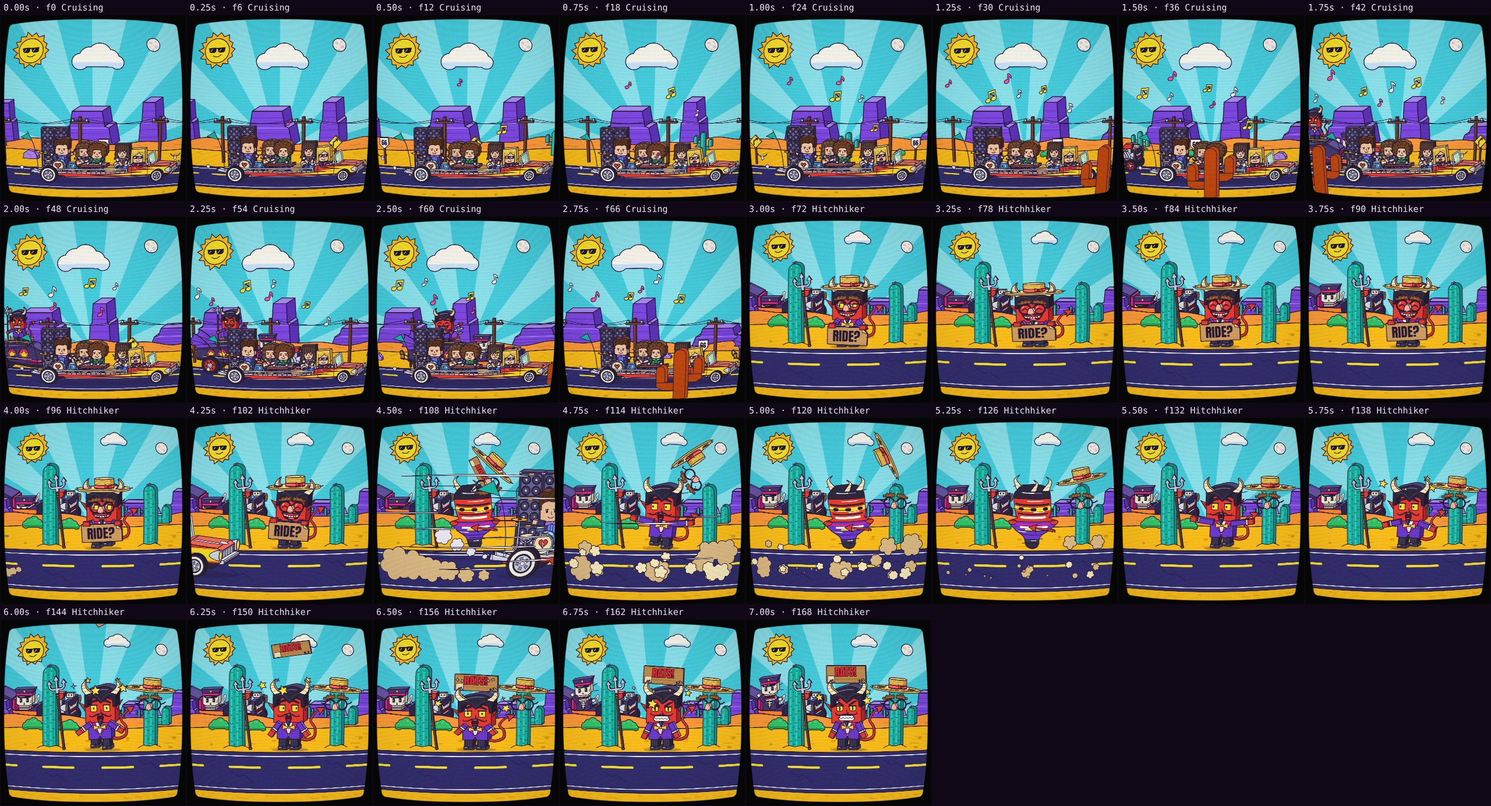
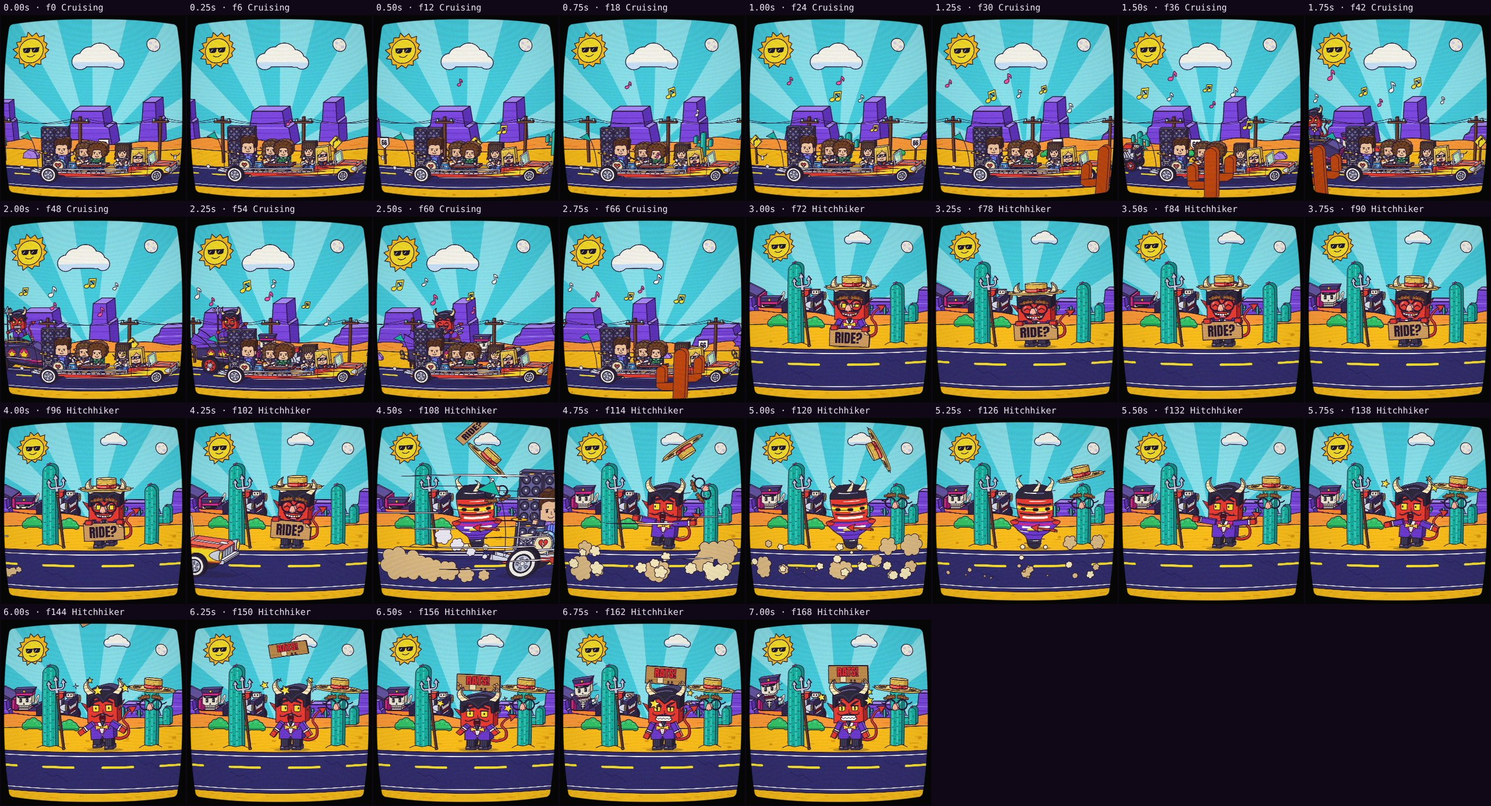
wip(runnin-down-a-dream): chorus 1 finished by its agent; other blocks in progress (not yet integrated)
Claude-Session: https://claude.ai/code/session_01UB8Eocu6YQhvkYFYMosPEV

diff --git a/sandbox/2026-11-11-runnin-down-a-dream/segments/verse1b.js b/sandbox/2026-11-11-runnin-down-a-dream/segments/verse1b.js
@@ -2,8 +2,9 @@
 // At a fork the highway runs on in the sun and an exit ramp drops into Hell's mouth. He swaps
 // the signpost's two boards so HEAVEN points down the ramp; the band drives straight on without
 // reading anything, and his own chauffeur, who does read, takes the exit with him aboard.
-//   bar 17      Swap   a closer shot of the sign (no cars): HELL goes up on the first beat,
-//                      HEAVEN comes down into his mitts and goes on the low nail on the third
+//   bar 17      Swap   a closer shot of the sign (no cars): a beat on the sign as it was, HELL
+//                      goes up on the second beat (HEAVEN comes down into his mitts), HEAVEN
+//                      goes on the low nail on the third, he rubs his mitts on the fourth
 //   bars 18–19  Fork   the wide shot: the band passes, the hearse takes the exit and drops in
 (() => {
     const Seg = (window.Seg = window.Seg || {});
@@ -428,8 +429,11 @@
     function swap(g, t) {
         const s = S1, P = S.pulseAt(t), ph = P.k + P.since;
         const NT = [PX1, PY1 - NAIL_T * s], NL = [PX1, PY1 - NAIL_L * s];
-        const e1 = n(0), e2 = n(1), e3 = n(2), e4 = n(3);
-        const k1 = kOf(t, e1), k2 = kOf(t, e2), k3 = kOf(t, e3), k4 = kOf(t, e4);
+        // beat 1 the sign as it was, beat 2 the first slap, beat 3 the second, beat 4 he rubs his mitts
+        const e0 = n(0), e1 = n(1), e3 = n(2), e4 = n(3);
+        const k0 = kOf(t, e0), k1 = kOf(t, e1), k3 = kOf(t, e3), k4 = kOf(t, e4);
+        // the second hop takes off one frame before its beat (the beats are 9 frames apart here)
+        const launch = t >= e3 - 1 / 24 - 1e-6 && t < e3 - 1e-6;
 
         backdrop(g, t, SET1);
         ramp(g, RAMP1);
@@ -440,41 +444,39 @@
         // --- where the two boards are: [x, y, ang], and who has HEAVEN
         const chest = [BX1 - 0.585 * s, GY1 - 0.46 * s];
         let hell, heaven, held = false;
-        if (k1 <= 0) hell = [NL[0] + 0.03 * s, NL[1] - 0.09 * s, LOW - 0.13];
-        else if (k1 === 1) hell = [PX1 + 0.5 * s, PY1 - 3.02 * s, 0.22];
-        else if (k1 === 2) hell = [NT[0] + 0.05 * s, NT[1] - 0.05 * s, -0.15];
-        else if (k1 === 3) hell = [NT[0], NT[1], 0.06];
+        if (k1 < 0) hell = [NL[0], NL[1], LOW];
+        else if (k1 === 0) hell = [PX1 + 0.5 * s, PY1 - 3.02 * s, 0.22];
+        else if (k1 === 1) hell = [NT[0] + 0.05 * s, NT[1] - 0.05 * s, -0.15];
+        else if (k1 === 2) hell = [NT[0], NT[1], 0.06];
         else hell = [NT[0], NT[1], 0];
-        if (k1 < 2) heaven = [NT[0], NT[1], 0];
-        else if (k1 === 2) heaven = [NT[0] - 1.2 * s, NT[1] - 0.5 * s, -0.2];
-        else if (k1 === 3) heaven = [chest[0] - 0.02 * s, GY1 - 2.72 * s, -0.12];
-        else if (k3 < -2) {
+        if (k1 < 1) heaven = [NT[0], NT[1], 0];
+        else if (k1 === 1) heaven = [NT[0] - 1.2 * s, NT[1] - 0.5 * s, -0.2];
+        else if (launch) heaven = [PX1 - 0.1 * s, PY1 - 2.02 * s, 0.46];
+        else if (k3 < 0) {
             held = true;
-            heaven = [chest[0], chest[1] + (k2 === 0 ? 0.09 * s : 0), 0];
-        } else if (k3 === -2) {
-            held = true;
-            heaven = [chest[0], chest[1] + 0.07 * s, 0];
-        } else if (k3 === -1) heaven = [PX1 - 0.1 * s, PY1 - 2.02 * s, 0.46];
-        else heaven = [NL[0], NL[1], LOW + (k3 === 0 ? 0.12 : k3 === 1 ? -0.05 : 0)];
+            heaven = [chest[0], chest[1] + (k1 === 2 ? 0.09 * s : 0), 0];
+        } else heaven = [NL[0], NL[1], LOW + (k3 === 0 ? 0.12 : k3 === 1 ? -0.05 : 0)];
 
-        // --- the Devil: a hop and a slap on the first beat, the catch, a hop and a slap on the third, then he rubs his mitts
+        // --- the Devil: he looks his work over tapping his mitts, a hop and a slap on the second
+        // beat, the catch, a hop and a slap on the third, then he rubs his mitts
         const dx = BX1;
         let hopY = 0, pose;
         const tail = 0.05 * Math.sin(ph * PI);
-        if (k1 === 0) {
+        if (k1 < 0) {
+            const a = k0 % 2 ? 1 : 0; // mitts together, apart, together; then he crouches for the hop
+            if (k0 < 3) pose = { mood: 'sly', look: 1, headTilt: -0.07, squash: 0.02 + 0.04 * (1 - a), handL: [0.1 + 0.2 * a, -0.66 - 0.05 * a], handR: [-0.07 - 0.2 * a, -0.64 - 0.05 * a], tail: 0.09 * Math.sin(k0 * 2.1) };
+            else pose = { mood: 'sly', look: 1, headTilt: -0.05, squash: 0.18, handL: [0.52, -0.56], handR: [-0.56, -0.56], tail: -0.04 };
+        } else if (k1 === 0) {
             hopY = 0.7;
             pose = { mood: 'sly', look: 1, squash: -0.07, lean: 0.05, handL: [0.66, -1.54], handR: [-0.62, -0.5], tail: 0.1 };
         } else if (k1 === 1) {
             hopY = 0.38;
-            pose = { mood: 'grin', look: 1, squash: -0.03, handL: [0.7, -1.5], handR: [-0.6, -0.56], tail: 0.08 };
-        } else if (k1 === 2) pose = { mood: 'grin', look: 1, squash: 0.15, headTilt: -0.06, handL: [0.62, -0.74], handR: [-0.56, -0.6], tail };
-        else if (k1 === 3) pose = { mood: 'grin', look: 0.6, squash: -0.05, headTilt: -0.05, handL: [0.78, -1.5], handR: [-0.46, -1.5], tail: 0.08 };
-        else if (k3 < -2) pose = { mood: k2 < 2 ? 'grin' : 'sly', look: k2 < 2 ? 0.6 : 0, squash: k2 === 0 ? 0.1 : k2 === 1 ? 0.03 : 0.03 * P.pulse, headTilt: k2 < 2 ? 0 : 0.06, handL: [0.84, -0.8], handR: [-0.64, -0.8], tail };
-        else if (k3 === -2) pose = { mood: 'sly', look: 1, squash: 0.16, handL: [0.84, -0.74], handR: [-0.64, -0.74], tail: -0.04 };
-        else if (k3 === -1) {
+            pose = { mood: 'grin', look: 0.6, squash: -0.04, headTilt: -0.05, handL: [0.78, -1.5], handR: [-0.46, -1.5], tail: 0.08 };
+        } else if (launch) {
             hopY = 0.36;
             pose = { mood: 'sly', look: 1, squash: -0.08, handL: [0.78, -1.3], handR: [-0.6, -0.62], tail: 0.06 };
-        } else if (k3 === 0) {
+        } else if (k3 < 0) pose = { mood: k1 === 2 ? 'grin' : 'sly', look: k1 === 2 ? 0.6 : 0, squash: k1 === 2 ? 0.1 : 0.03, headTilt: k1 === 2 ? 0 : 0.06, handL: [0.84, -0.8], handR: [-0.64, -0.8], tail };
+        else if (k3 === 0) {
             hopY = 0.7;
             pose = { mood: 'sly', look: 1, squash: -0.07, lean: 0.05, handL: [0.66, -1.54], handR: [-0.62, -0.5], tail: 0.1 };
         } else if (k3 === 1) {
@@ -511,7 +513,7 @@
             board(g, s, word, bd[0], bd[1], bd[2]);
             for (const N of [NT, NL]) if (onPost(bd, N)) nail(g, N[0], N[1], s);
         };
-        if (k1 < 2) {
+        if (k1 < 1) {
             draw('HEAVEN', heaven);
             draw('HELL', hell);
         } else {
@@ -522,13 +524,16 @@
             mitt(g, dx - 0.66 * s, heaven[1] - 0.37 * s, s);
             mitt(g, dx + 0.9 * s, heaven[1] - 0.37 * s, s);
         }
-        // the hits, and a twinkle on each board once both hang in their new places
+        // the hits
         if (k1 === 0) hit(g, NL[0] - 0.5 * s, NL[1] + 0.12 * s, 46, 'v1b-a');
-        if (k1 === 2) hit(g, NT[0] + 0.02 * s, NT[1] - 0.02 * s, 60, 'v1b-b');
+        if (k1 === 1) hit(g, NT[0] + 0.02 * s, NT[1] - 0.02 * s, 60, 'v1b-b');
         if (k3 === 0) hit(g, NL[0] - 0.5 * s, NL[1] + 0.12 * s, 56, 'v1b-d');
-        for (const [at, x, y] of [[e4, NT[0] - 0.3 * s, NT[1] - 0.56 * s], [e4 + 2 / 24, NL[0] + 1.9 * s, NL[1] + 0.56 * s]]) {
+        // a twinkle on each board in turn: on the sign as it was (the first is already out on
+        // the first frame), and again once both hang in their new places
+        const TOP = [NT[0] - 0.3 * s, NT[1] - 0.56 * s], LOWER = [NL[0] + 1.9 * s, NL[1] + 0.56 * s];
+        for (const [at, p, until] of [[e0 - 2 / 24, TOP, e1], [e0 + 2 / 24, LOWER, e1], [e4, TOP, T1], [e4 + 2 / 24, LOWER, T1]]) {
             const tw = bump(t, at, 0.34);
-            if (tw > 0.01 && t >= at - 1e-6) C.sparkle(g, x, y, 18 + 46 * tw, { color: K.white, ink: K.ink, lw: 3 });
+            if (tw > 0.01 && t >= at - 1e-6 && t < until - 1e-6) C.sparkle(g, p[0], p[1], 18 + 46 * tw, { color: K.white, ink: K.ink, lw: 3 });
         }
     }
 

diff --git a/sandbox/2026-11-11-runnin-down-a-dream/segments/verse1a.js b/sandbox/2026-11-11-runnin-down-a-dream/segments/verse1a.js
@@ -1,12 +1,15 @@
 // «Verse 1 · a beautiful day», first part: bars 12–16 (17.29–24.375 s).
-//   bars 12–13  Cruising     a travelling shot: the band plays down the day road, Tom sings to
-//                            the sun, notes pour out of the car and stream back over the
-//                            speakers; in bar 13 the hearse creeps in behind them through the
-//                            music, draws level and overtakes
-//   bars 14–16  Hitchhiker   a static roadside shot, closer: the Devil in a paper-thin disguise
-//                            holds up RIDE?; the band's car goes by without slowing and its wind
-//                            strips the disguise and spins him like a top; the sign comes back
-//                            down on his horns with its back showing: RATS!
+//   bars 12–13  Cruising     a travelling shot: the band plays down the day road, Tom sings at
+//                            the sun (it nods on the snare), notes pour out of the car on the
+//                            beat and stream back over the speakers; in bar 13 the hearse creeps
+//                            in behind them under the music, draws level and, the trident
+//                            couched like a lance, overtakes
+//   bars 14–16  Hitchhiker   a static roadside shot, closer (160 units a figure): the Devil in
+//                            a paper-thin disguise hoists RIDE?; the band's car goes through
+//                            without slowing and its wind strips him (the sign straight up, the
+//                            glasses and the hat on to a cactus down the road) and spins him
+//                            like a top; the sign comes back down on his horns, back to us:
+//                            RATS!, and his chauffeur laughs
 // Props and the roadside set are in verse1a-props.js (V1A).
 (() => {
     const Seg = (window.Seg = window.Seg || {});
@@ -80,7 +83,7 @@
     // =========================================================================================
     // Bars 14–16 · The hitchhiker
     // =========================================================================================
-    const V = V1A, SET = V.SET, SC = SET.SC, RW = World.THEMES.day;
+    const V = V1A, SET = V.SET, SC = SET.SC;
     const DX = 556, DY = 694; // the Devil's mark on the far verge
     const CAX = 266, CAY = 684, CAH = 430; // the saguaro behind him: his trident leans on it, and his hearse is «hidden» behind it
     const CBX = 806, CBY = 682, CBH = 318; // the one down the road, which ends up dressed
@@ -162,10 +165,9 @@
 
         // --- the Devil
         const dn = Math.floor((t - n(4)) * 12 + 1e-6); // drawings since the car arrived
-        const SPIN = 'bbWWWWFWWWFWWFWFF'; // bar 15, a drawing each: braced, then the top (W) and glimpses of him (F) as it slows
+        const SPIN = 'bFWWWWFWWWFWWFWFF'; // bar 15, a drawing each: braced, then the top (W) and glimpses of him (F) as it slows
         const disguised = !at(t, RIP), spinning = at(t, RIP) && !at(t, n(8)), signUp = at(t, RIP) && !at(t, SIGN_FALL), signOn = at(t, SIGN_LAND);
         const tauS = twos(t, n(8)) - n(8), tauL = twos(t, SIGN_LAND) - SIGN_LAND;
-        const starsOn = at(t, n(8));
         let pose, whirl = null, dxx = 0;
         if (disguised) {
             // bar 14: he checks the road, hoists the sign, beams; then the car is on him
@@ -182,8 +184,7 @@
         } else if (spinning) {
             const kind = SPIN[Math.min(dn, SPIN.length - 1)], slow = E.seg(dn, 9, 16);
             dxx = 12 * Math.sin(dn * 0.9) * (1 - slow);
-            if (kind === 'W' || dn === 1) whirl = { d: dn, k: 1 - slow, lean: 0.07 * Math.sin(dn * 1.3) };
-            if (dn === 1) whirl = null;
+            if (kind === 'W') whirl = { d: dn, k: 1 - slow, lean: 0.07 * Math.sin(dn * 1.3) };
             pose = {
                 mood: 'shock', look: [-1, 1, 0][dn % 3], lean: dn === 1 ? 0.12 : 0.1 * Math.sin(dn * 1.3), squash: dn === 1 ? -0.06 : 0, headTilt: dn === 1 ? 0.1 : -0.06 * Math.sin(dn * 1.3),
                 tail: 0.07, step: dn % 2 ? 1 : -1, handR: [-0.92, dn === 1 ? -1.25 : -0.9], handL: [0.92, dn === 1 ? -1.2 : -0.92],
@@ -202,7 +203,7 @@
         const px = DX + dxx;
         // the stars round his head: the far half of the ring goes behind it
         const stars = (front) => {
-            if (!starsOn) return;
+            if (!at(t, n(8))) return;
             const k = pop(t, n(8), 0.25), low = signOn ? 1 : 0, scatter = signOn ? 1 + 0.45 * bump(t, SIGN_LAND, 0.4) : 1;
             V.onHead(g, px, DY, SC, pose, () => {
                 for (let i = 0; i < 5; i++) {
@@ -256,7 +257,7 @@
                 V.mitt(g, L, 0.5, pose.signY - 0.3 + 0.5 * Math.sin(pose.signAng));
             });
         }
-        if (signOn || (at(t, SIGN_FALL) && !signOn)) {
+        if (at(t, SIGN_FALL)) {
             if (signOn) {
                 // on his horns, back to us: they have gone through its lower edge
                 V.onHead(g, px, DY, SC, pose, (L) => {
@@ -264,7 +265,7 @@
                     g.save();
                     g.translate(0.02, -2.18);
                     g.rotate(rk);
-                    g.scale(1 + 0.12 * (1 - land) / 0.4, 0.82 + 0.18 * land / 1.0);
+                    g.scale(1 + 0.3 * (1 - land), 1 - 0.45 * (1 - land)); // it lands flat-footed and springs back
                     g.translate(0, -0.3);
                     V.sign(g, L, 'back');
                     // the cardboard splits where each horn came through
@@ -285,7 +286,7 @@
                 // falling out of the sky, turning over as it comes
                 const k = Math.min(4, Math.floor((t - SIGN_FALL) * 12 + 1e-6)), u = [0.08, 0.3, 0.52, 0.74, 0.92][k];
                 const face = k < 2 ? 'front' : 'back', sq = [0.9, 0.3, 0.42, 0.8, 1][k], ang = [-0.5, -0.32, 0.3, -0.14, 0.07][k];
-                const ty = DY + (-2.48 + pose.headDy * 0) * SC;
+                const ty = DY - 2.48 * SC;
                 V.units(g, px + E.lerp(-46, 3, u), E.lerp(-70, ty, u * u * 0.6 + u * 0.4), SC, ang, (L) => {
                     g.scale(1, sq);
                     V.sign(g, L, face);
@@ -328,7 +329,7 @@
         if (passed) {
             for (const [x, s, t0, seed] of [[230, 0.85, 0.16, 'a'], [600, 0.7, 0.08, 'b'], [940, 0.9, 0, 'c']]) Rides.dust(g, x, SET.LANE + 6, SC * s, 0.2 + 0.8 * E.seg(t, n(5) - t0, n(5) - t0 + 1.0), 'v1a' + seed, t);
             const k = E.seg(t, n(5), n(5) + 0.42);
-            if (k < 1) V.streaks(g, 'wake' + Math.floor((t - n(5)) * 12 + 1e-6), [300 + 500 * k, SET.LANE - 480, 800, 440], { n: Math.round(7 * (1 - k)) + 1, len: [200, 480], th: 8, ink: 0.4 });
+            if (k < 1) V.streaks(g, 'wake' + Math.floor((t - n(5)) * 12 + 1e-6), [300 + 500 * k, SET.ROAD0 + 6, 800, 200], { n: Math.round(5 * (1 - k)) + 1, len: [200, 480], th: 8, ink: 0.4 });
         }
     }
 

diff --git a/sandbox/2026-11-11-runnin-down-a-dream/segments/verse1c.js b/sandbox/2026-11-11-runnin-down-a-dream/segments/verse1c.js
@@ -320,12 +320,12 @@
     // Bars 23–24 · Flying
     // =========================================================================================
     const T_END = T5 - 1 / 24, Y_END = LANE - 110, Y_TOP = 392, Y_IN = 636, K_TOP = 4.3; // in beats of this shot
-    const BIRDS = [[806, 212, 46, true], [876, 158, 38, false], [912, 246, 34, false]];
+    const BIRDS = [[862, 200, 62, true], [918, 138, 50, false], [928, 262, 44, false]];
     function flying(g, t) {
         const P = S.pulseAt(t), d = C.drawing(t), X = Rig.X(t), kEnd = (8 * (T_END - T3)) / (T5 - T3), k = (8 * (t - T3)) / (T5 - T3);
         World.back(g, t, X, 'day', SKY);
         // the sun grins while they are level with it
-        PP.sunGrin(g, t, X, SKY.sun, t < n(18) - EPS ? pop(t, n(14), 0.2) : 1 - E.out(seg(t, n(18), n(18) + 2 / 12)));
+        PP.sunGrin(g, t, X, SKY.sun, t < n(18) - 2 / 12 - EPS ? pop(t, n(15), 0.2) : 1 - E.out(seg(t, n(18) - 2 / 12, n(18))));
         // wind: a few streaks at their height
         const r = Motion.rng('wind');
         for (let i = 0; i < 7; i++) {
@@ -344,14 +344,6 @@
             if (x > 1080) return;
             PP.bird(g, x, yy, bs, { flap: [0, 1, 2, 1][(((d + i) % 4) + 4) % 4], shades, look: away > 0 ? 1 : -1, lookY: y > yy + 240 ? 1 : 0, tilt: -0.5 * away });
         });
-        // notes off the backline, left behind
-        for (let j = 0; j < 9; j++) {
-            const at = n(12 + j), u = (t - at) / (S.BEAT * 1.7);
-            if (u < 0 || u >= 1 || j > 6) continue;
-            const yk = (8 * (at - T3)) / (T5 - T3), y0 = (yk < K_TOP ? Y_TOP + (Y_IN - Y_TOP) * Math.pow(1 - yk / K_TOP, 2) : Y_TOP + (Y_END - Y_TOP) * Math.pow((yk - K_TOP) / (kEnd - K_TOP), 2.3)) - 300;
-            const uu = (twos(t, at) - at) / (S.BEAT * 1.7), sz = 15 * pop(t, at, 0.2) * (uu > 0.75 ? (1 - uu) / 0.25 : 1);
-            C.note(g, 262 - 150 * uu, y0 + 40 - 70 * uu + 12 * Math.sin(uu * 7 + j), sz, { color: [K.white, K.pink, K.yellow][j % 3], kind: j % 2 ? 2 : 1, rot: -0.2 + 0.3 * Math.sin(j * 2.1), lw: 3 });
-        }
         PP.car(g, t, 520, y, SC, {
             tilt, ground: LANE, spin: X / (0.56 * SC), exhaust: 1 - E.seg(k, 6, 7.6), sing: true,
             lift: { stan: 0.05 * top, ben: 0.09 * top, howie: 0.12 * top, mike: 0.1 * top, tom: 0.06 * top },

diff --git a/sandbox/2026-11-11-runnin-down-a-dream/segments/verse1a-props.js b/sandbox/2026-11-11-runnin-down-a-dream/segments/verse1a-props.js
@@ -1,11 +1,11 @@
 // Props and the roadside set of «verse1a» (segments/verse1a.js): the Devil's paper-thin
-// disguise (a straw boater his horns poke through, joke glasses with a false nose), the
-// cardboard sign and its two faces, speed lines, dizzy stars, the top he turns into, and the
-// roadside where he waits (a saguaro, bushes, the road at the closer scale).
+// disguise (a straw boater his horns poke through, joke glasses with bushy brows and a false
+// nose), the cardboard sign and its two faces, speed lines, dust, dizzy stars, the top he
+// turns into, and the roadside where he waits (saguaros, bushes, the road at the closer scale).
 //
 // Things the Devil wears or holds are drawn in his units (1 ≈ a head's width, y down) with
-// the line width L = 3.2 / s, inside a transform the caller sets (see `units` and `onHead`).
-// The set is drawn in logical units. Global: V1A. Depends on Cereal, Cast, Devil, World.
+// the line width L = 3.2 / s, inside a transform the caller sets (`units`, `onHead`). The set
+// is drawn in logical units. Global: V1A. Depends on Cereal, Cast, Devil, World, Song.
 const V1A = (() => {
     const C = Cereal, K = C.COL, TAU = Math.PI * 2, D = Cast.D, Dd = Cast.Dd, DP = Devil.P;
     const ob = (x, y, z = 0) => [x + D[0] * z, y + D[1] * z];

diff --git a/sandbox/2026-11-11-runnin-down-a-dream/dev/chorus1/review/auto.md b/sandbox/2026-11-11-runnin-down-a-dream/dev/chorus1/review/auto.md
@@ -11,7 +11,7 @@
 Energy per second (how much the image changes):
 
 ```
-▅▅█▇▇▆▆▆▇▇▅▇▅
+▅▆█▇▇▆▇▆█▇▆▇▆
 0    5    10   
 ```
 
@@ -19,7 +19,7 @@ No still stretches of 1 s or more.
 
 ## Speed
 
-Painting: 146 ms/frame cold, 161 ms warm → full render ≈ 49 s at this size.
+Painting: 125 ms/frame cold, 92 ms warm → full render ≈ 28 s at this size.
 
 ## Contact sheet
 

diff --git a/sandbox/2026-11-11-runnin-down-a-dream/dev/verse1a/review/auto.md b/sandbox/2026-11-11-runnin-down-a-dream/dev/verse1a/review/auto.md
@@ -19,7 +19,7 @@ No still stretches of 1 s or more.
 
 ## Speed
 
-Painting: 295 ms/frame cold, 301 ms warm → full render ≈ 51 s at this size.
+Painting: 181 ms/frame cold, 134 ms warm → full render ≈ 23 s at this size.
 
 ## Contact sheet
 
